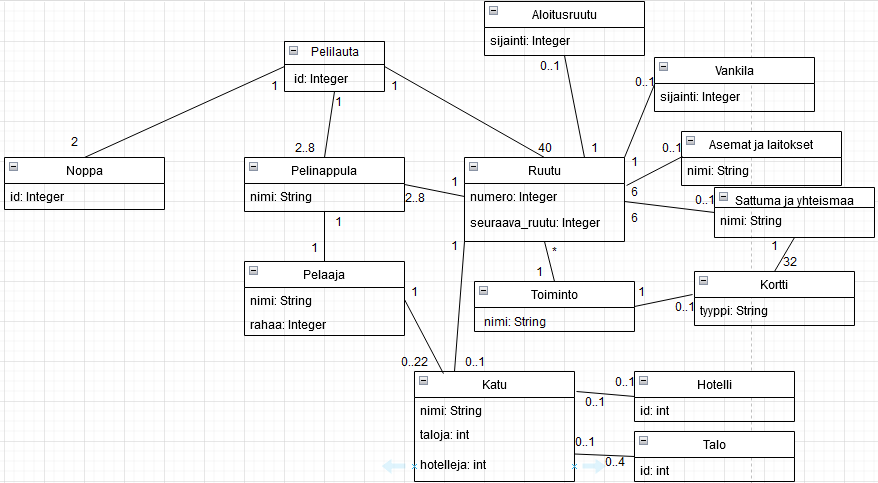
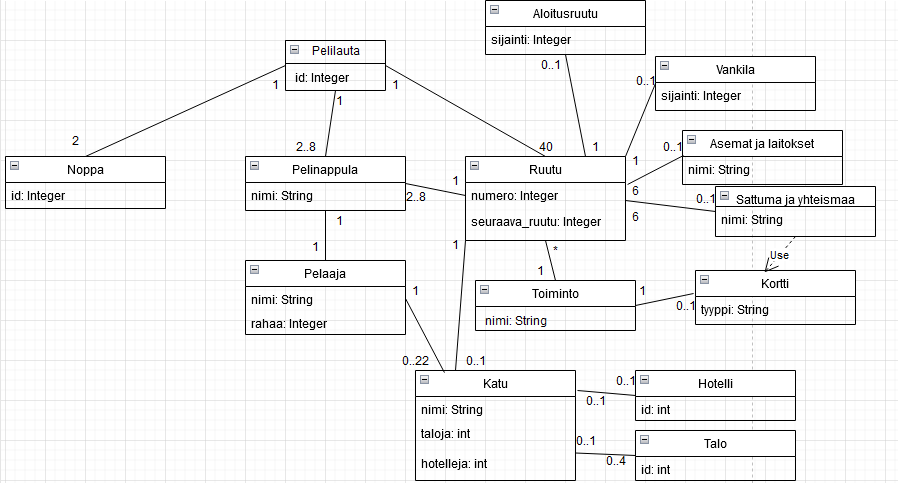
muutos

diff --git a/laskarit/viikko3/Monopoly/src/main/java/Kortti.java b/laskarit/viikko3/Monopoly/src/main/java/Kortti.java
@@ -11,12 +11,10 @@
 public class Kortti {
     Toiminto toiminto;
     String tyyppi;
-    SattumaJaYhteismaa sjy;
     
-    public void Kortti(Toiminto toiminto, String tyyppi, SattumaJaYhteismaa sjy){
+    public void Kortti(Toiminto toiminto, String tyyppi){
         this.toiminto = toiminto;
-        this.tyyppi = tyyppi;
-        this.sjy = sjy;         
+        this.tyyppi = tyyppi;       
     }
     
     public Toiminto getAction(){
@@ -25,10 +23,5 @@ public class Kortti {
     
     public String getType(){
         return this.tyyppi;
-    }
-    
-    public SattumaJaYhteismaa getChanceAndCommunityChest(){
-        return this.sjy;
-    }
-       
+    }      
 }
